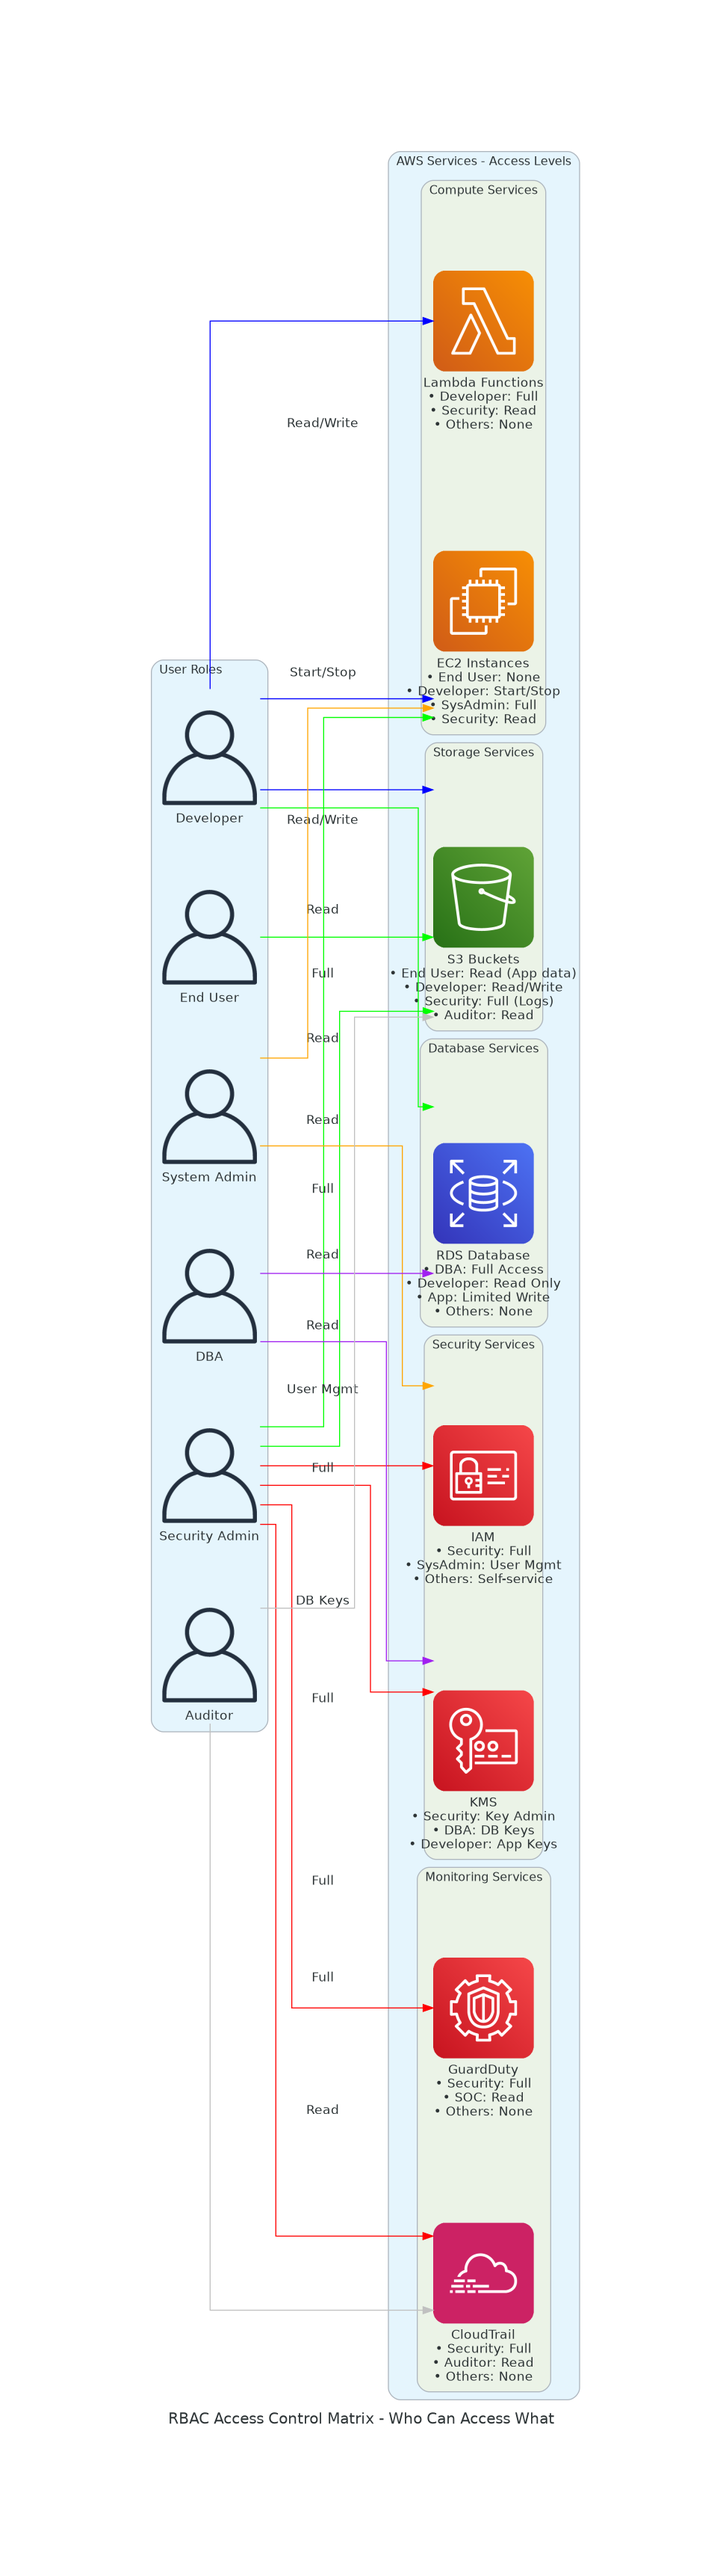
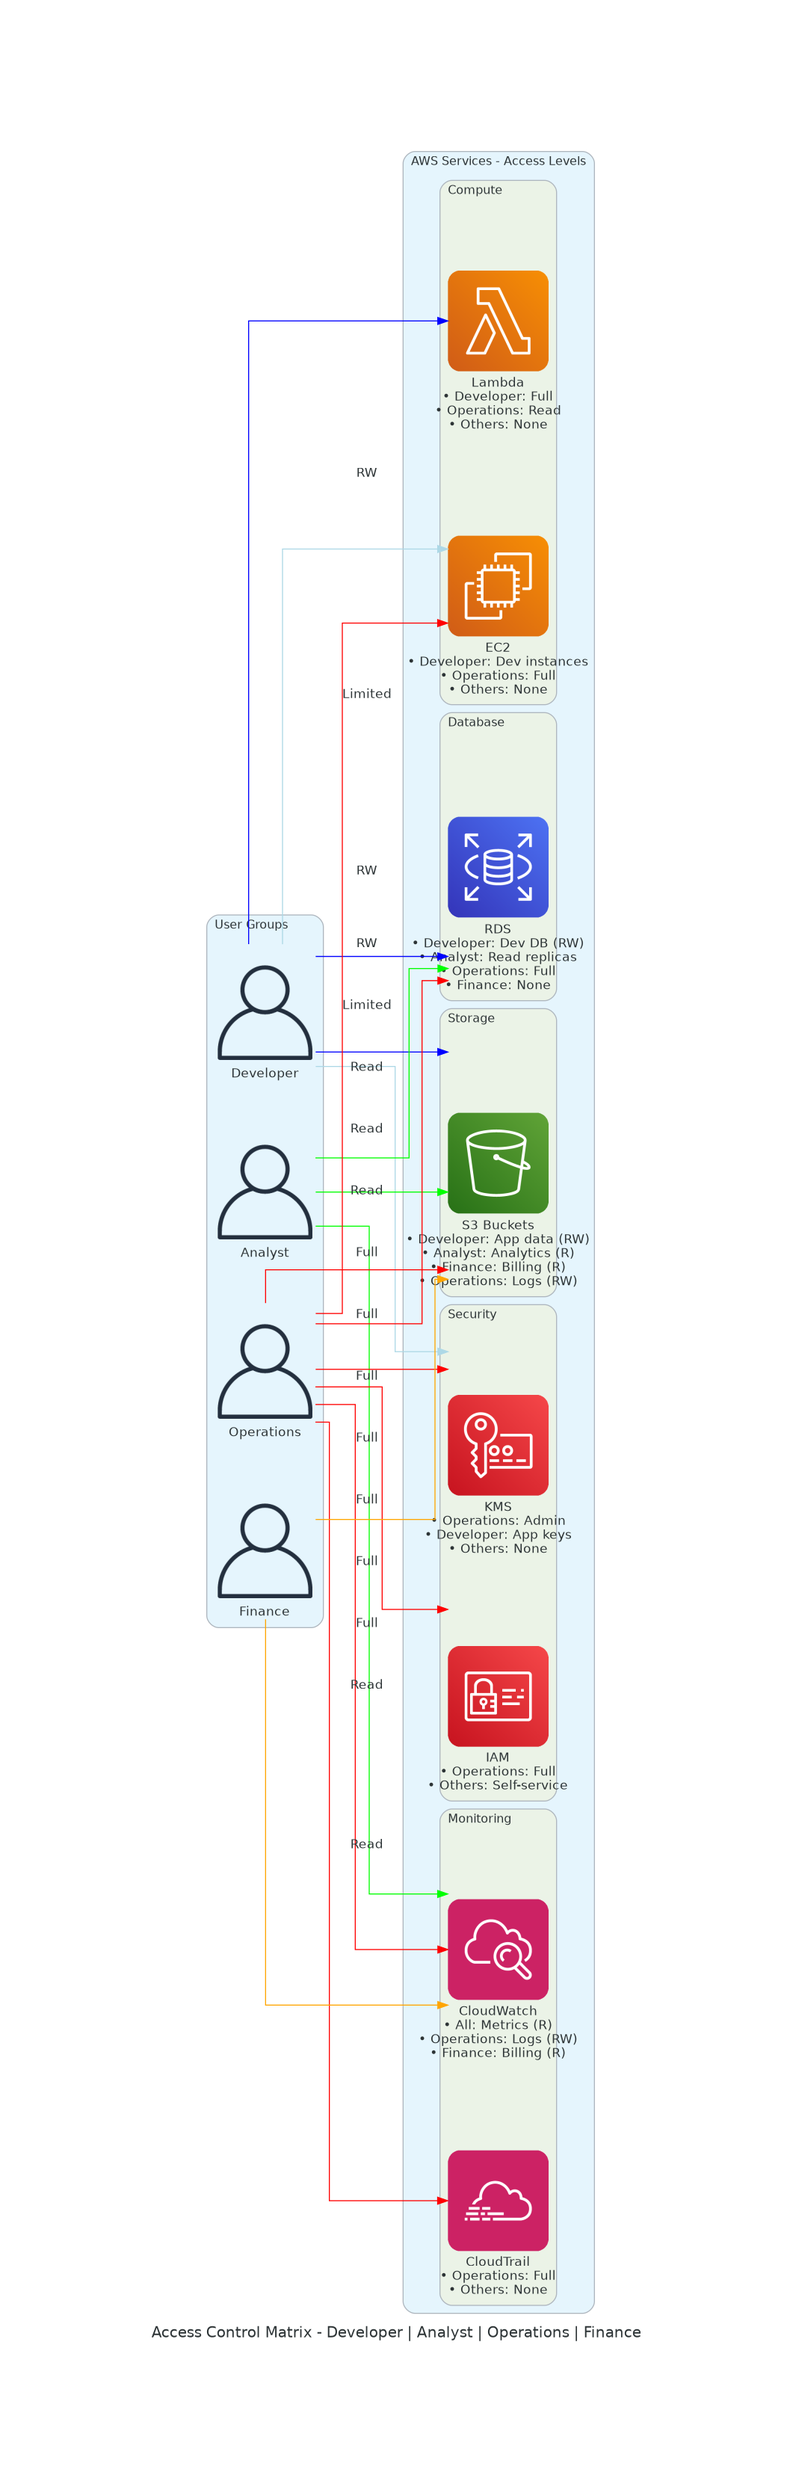
Update architecture with specific user groups: Developer, Analyst, Operations, Finance
- Updated RBAC diagrams with 4 specific user groups
- Developer: App development resources (S3 app data, Lambda, Dev RDS/EC2)
- Analyst: Read-only analytics access (S3 analytics, RDS replicas, CloudWatch metrics)
- Operations: Full infrastructure access (All EC2, monitoring, security services)
- Finance: Billing data access (S3 billing, CloudWatch billing metrics)
- Updated access control matrix in README
- Maintained principle of least privilege for each group

Changed region(s): [[0.186, 0.0312, 0.8058, 0.9367], [0.3099, 0.1249, 0.3409, 0.1561]]

diff --git a/generate_architecture_diagram.py b/generate_architecture_diagram.py
@@ -1,193 +1,157 @@
 #!/usr/bin/env python3
 """
-AWS Zero-Trust Security Architecture Diagram Generator with RBAC Access Control
+AWS Zero-Trust Security Architecture with Specific User Groups
 """
 
 from diagrams import Diagram, Cluster, Edge
 from diagrams.aws.compute import Lambda, EC2
 from diagrams.aws.database import RDS
-from diagrams.aws.network import VPC, ALB
+from diagrams.aws.network import ALB
 from diagrams.aws.security import IAM, KMS, SecretsManager, Guardduty, SecurityHub, WAF
 from diagrams.aws.storage import S3
 from diagrams.aws.management import Cloudtrail, Cloudwatch, SystemsManager, Config
 from diagrams.aws.integration import SNS
-from diagrams.aws.general import User, Users
+from diagrams.aws.general import User
 from diagrams.onprem.client import Client
 
 def create_rbac_architecture():
-    """Generate architecture diagram with Role-Based Access Control matrix"""
+    """Generate architecture with specific user groups: Developer, Analyst, Operations, Finance"""
     
-    with Diagram("Enterprise Zero-Trust Architecture with RBAC Access Control", 
+    with Diagram("Enterprise Zero-Trust Architecture - User Group Access Control", 
                  filename="zero_trust_rbac_architecture", 
                  show=False, 
                  direction="TB"):
         
-        # User Groups with specific roles
-        with Cluster("User Groups & Roles"):
-            end_users = Users("End Users\nRole: ReadOnlyAccess")
-            developers = User("Developers\nRole: DeveloperAccess")
-            security_admin = User("Security Admin\nRole: SecurityAudit")
-            sys_admin = User("System Admin\nRole: PowerUserAccess")
-            dba = User("Database Admin\nRole: DatabaseAccess")
+        # Specific User Groups
+        with Cluster("User Groups"):
+            developer = User("Developer\nRole: DeveloperAccess")
+            analyst = User("Analyst\nRole: AnalystAccess") 
+            operations = User("Operations\nRole: OperationsAccess")
+            finance = User("Finance\nRole: FinanceAccess")
             
-        # Layer 1: Identity & Access Management with RBAC
+        # IAM Roles with specific permissions
         with Cluster("Layer 1: IAM - Role-Based Access Control"):
             with Cluster("IAM Roles & Policies"):
-                readonly_role = IAM("ReadOnlyRole\n• S3: GetObject\n• EC2: Describe*\n• RDS: Describe*")
-                dev_role = IAM("DeveloperRole\n• S3: Read/Write\n• Lambda: Full\n• EC2: Start/Stop")
-                security_role = IAM("SecurityRole\n• CloudTrail: Full\n• GuardDuty: Full\n• SecurityHub: Full")
-                admin_role = IAM("AdminRole\n• EC2: Full\n• Systems Manager: Full\n• Config: Full")
-                dba_role = IAM("DBARole\n• RDS: Full\n• Secrets: Database*\n• KMS: Database keys")
+                dev_role = IAM("DeveloperRole\n• S3: App buckets (RW)\n• Lambda: Full\n• EC2: Dev instances\n• RDS: Dev DB (RW)")
+                analyst_role = IAM("AnalystRole\n• S3: Analytics data (R)\n• CloudWatch: Metrics (R)\n• RDS: Read replicas (R)\n• QuickSight: Full")
+                ops_role = IAM("OperationsRole\n• EC2: Full\n• Systems Manager: Full\n• CloudWatch: Full\n• Config: Full")
+                finance_role = IAM("FinanceRole\n• S3: Billing data (R)\n• Cost Explorer: Full\n• CloudWatch: Billing (R)\n• Trusted Advisor: R")
             
-        # Layer 2: Network Security with Access Controls
+        # Network Security
         with Cluster("Layer 2: Network Security"):
-            with Cluster("VPC (10.0.0.0/16) - Network Access Control"):
-                waf = WAF("AWS WAF\nAccess: Security Admin")
-                alb = ALB("Application LB\nAccess: System Admin")
+            with Cluster("VPC (10.0.0.0/16)"):
+                waf = WAF("AWS WAF\nAccess: Operations")
+                alb = ALB("Application LB\nAccess: Operations")
                 
                 with Cluster("Private Subnet (10.0.1.0/24)"):
-                    web_server = EC2("Web Server\nAccess: Developers, Admins\nSG: Port 443 from ALB")
+                    web_server = EC2("Web Server\nAccess: Developer, Operations")
                     
                 with Cluster("Private Subnet (10.0.2.0/24)"):
-                    app_server = EC2("App Server\nAccess: Developers, Admins\nSG: Port 8080 from Web")
-                    security_lambda = Lambda("Security Functions\nAccess: Security Admin")
+                    app_server = EC2("App Server\nAccess: Developer, Operations")
+                    security_lambda = Lambda("Security Functions\nAccess: Operations")
         
-        # Layer 3: Data Protection with Data Access Controls
-        with Cluster("Layer 3: Data Protection - Data Access Matrix"):
-            kms = KMS("KMS Keys\nAccess: Key Admins\n• App Keys: Developers\n• DB Keys: DBAs\n• Security Keys: Sec Admin")
-            secrets = SecretsManager("Secrets Manager\nAccess: Service Roles\n• DB Secrets: DBA Role\n• App Secrets: Dev Role")
+        # Data Protection
+        with Cluster("Layer 3: Data Protection"):
+            kms = KMS("KMS Keys\nAccess: Operations (Admin)\nDeveloper (App keys)")
+            secrets = SecretsManager("Secrets Manager\nAccess: Developer, Operations")
             
-            with Cluster("Data Storage Access Control"):
-                s3_app = S3("Application Data\nAccess: Developers (RW)\nEnd Users (R)")
-                s3_logs = S3("Security Logs\nAccess: Security Admin (RW)\nAuditors (R)")
-                rds_db = RDS("Production DB\nAccess: DBA (Full)\nDevelopers (Read)\nApps (Limited)")
+            with Cluster("Data Storage"):
+                s3_app = S3("Application Data\nAccess: Developer (RW)")
+                s3_analytics = S3("Analytics Data\nAccess: Analyst (R)")
+                s3_billing = S3("Billing Data\nAccess: Finance (R)")
+                rds_prod = RDS("Production DB\nAccess: Operations (Admin)\nAnalyst (Read replica)")
+                rds_dev = RDS("Development DB\nAccess: Developer (RW)")
             
-        # Layer 4: Application Security
-        with Cluster("Layer 4: Application Security"):
-            container_sec = EC2("Container Security\nAccess: Developers, Security")
+        # Monitoring & Compliance
+        with Cluster("Layer 5: Monitoring"):
+            cloudtrail = Cloudtrail("CloudTrail\nAccess: Operations (RW)")
+            guardduty = Guardduty("GuardDuty\nAccess: Operations (Full)")
+            security_hub = SecurityHub("Security Hub\nAccess: Operations (Full)")
+            config = Config("Config Rules\nAccess: Operations (RW)")
+            cloudwatch = Cloudwatch("CloudWatch\nAccess: All (Metrics)\nOperations (Logs)")
             
-        # Layer 5: Monitoring & Compliance with Access Segregation
-        with Cluster("Layer 5: Monitoring - Segregated Access"):
-            cloudtrail = Cloudtrail("CloudTrail\nAccess: Security Admin (RW)\nAuditors (R)")
-            guardduty = Guardduty("GuardDuty\nAccess: Security Admin (Full)\nSOC Team (R)")
-            security_hub = SecurityHub("Security Hub\nAccess: Security Team (Full)\nManagement (R)")
-            config = Config("Config Rules\nAccess: Compliance Team (RW)\nAuditors (R)")
-            cloudwatch = Cloudwatch("CloudWatch\nAccess: All Roles (Metrics)\nAdmins (Logs)")
-            
-        # Layer 6: Incident Response with Response Team Access
+        # Incident Response
         with Cluster("Layer 6: Incident Response"):
-            sns = SNS("Security Alerts\nAccess: Security Team\nEscalation: Management")
-            systems_manager = SystemsManager("Systems Manager\nAccess: System Admins\nEmergency: Security Team")
+            sns = SNS("Security Alerts\nAccess: Operations")
+            systems_manager = SystemsManager("Systems Manager\nAccess: Operations")
             
-        # RBAC Access Flow
-        end_users >> Edge(label="Read-Only Access", color="green") >> readonly_role
-        developers >> Edge(label="Development Access", color="blue") >> dev_role
-        security_admin >> Edge(label="Security Operations", color="red") >> security_role
-        sys_admin >> Edge(label="System Operations", color="orange") >> admin_role
-        dba >> Edge(label="Database Operations", color="purple") >> dba_role
+        # Access Flow
+        developer >> Edge(label="Development Access", color="blue") >> dev_role
+        analyst >> Edge(label="Analytics Access", color="green") >> analyst_role
+        operations >> Edge(label="Operations Access", color="red") >> ops_role
+        finance >> Edge(label="Finance Access", color="orange") >> finance_role
         
-        # Service Access Mapping
-        readonly_role >> Edge(label="Read", color="green") >> [s3_app, cloudwatch]
-        dev_role >> Edge(label="Read/Write", color="blue") >> [s3_app, web_server, app_server, container_sec]
-        security_role >> Edge(label="Full Access", color="red") >> [cloudtrail, guardduty, security_hub, security_lambda, s3_logs]
-        admin_role >> Edge(label="Admin Access", color="orange") >> [web_server, app_server, alb, systems_manager, config]
-        dba_role >> Edge(label="Database Access", color="purple") >> [rds_db, secrets, kms]
+        # Service Access
+        dev_role >> Edge(label="RW", color="blue") >> [s3_app, rds_dev, web_server, app_server]
+        analyst_role >> Edge(label="Read", color="green") >> [s3_analytics, rds_prod, cloudwatch]
+        ops_role >> Edge(label="Full", color="red") >> [waf, alb, web_server, app_server, cloudtrail, guardduty, security_hub, config, systems_manager]
+        finance_role >> Edge(label="Read", color="orange") >> [s3_billing, cloudwatch]
         
-        # Cross-layer security monitoring
-        [web_server, app_server, rds_db, s3_app] >> Edge(label="Audit Trail", style="dashed") >> cloudtrail
-        [web_server, app_server, rds_db] >> Edge(label="Threat Detection", style="dashed") >> guardduty
-        
-        # Incident response flow
-        guardduty >> Edge(label="High Severity Alert", color="red") >> sns
-        sns >> Edge(label="Notify", color="red") >> [security_admin, sys_admin]
+        # Monitoring flow
+        [web_server, app_server, rds_prod, s3_app] >> Edge(label="Audit", style="dashed") >> cloudtrail
+        guardduty >> Edge(label="Alert", color="red") >> sns >> operations
 
 def create_access_control_matrix():
-    """Generate detailed access control matrix diagram"""
+    """Generate access control matrix for specific user groups"""
     
-    with Diagram("RBAC Access Control Matrix - Who Can Access What", 
+    with Diagram("Access Control Matrix - Developer | Analyst | Operations | Finance", 
                  filename="rbac_access_matrix", 
                  show=False, 
                  direction="LR"):
         
-        # User Roles
-        with Cluster("User Roles"):
-            end_user = User("End User")
-            developer = User("Developer") 
-            security = User("Security Admin")
-            sysadmin = User("System Admin")
-            dba = User("DBA")
-            auditor = User("Auditor")
+        # User Groups
+        with Cluster("User Groups"):
+            developer = User("Developer")
+            analyst = User("Analyst") 
+            operations = User("Operations")
+            finance = User("Finance")
             
-        # AWS Services with Access Levels
+        # AWS Services
         with Cluster("AWS Services - Access Levels"):
-            with Cluster("Compute Services"):
-                ec2 = EC2("EC2 Instances\n• End User: None\n• Developer: Start/Stop\n• SysAdmin: Full\n• Security: Read")
-                lambda_svc = Lambda("Lambda Functions\n• Developer: Full\n• Security: Read\n• Others: None")
+            with Cluster("Compute"):
+                ec2 = EC2("EC2\n• Developer: Dev instances\n• Operations: Full\n• Others: None")
+                lambda_svc = Lambda("Lambda\n• Developer: Full\n• Operations: Read\n• Others: None")
                 
-            with Cluster("Storage Services"):
-                s3 = S3("S3 Buckets\n• End User: Read (App data)\n• Developer: Read/Write\n• Security: Full (Logs)\n• Auditor: Read")
+            with Cluster("Storage"):
+                s3 = S3("S3 Buckets\n• Developer: App data (RW)\n• Analyst: Analytics (R)\n• Finance: Billing (R)\n• Operations: Logs (RW)")
                 
-            with Cluster("Database Services"):
-                rds = RDS("RDS Database\n• DBA: Full Access\n• Developer: Read Only\n• App: Limited Write\n• Others: None")
+            with Cluster("Database"):
+                rds = RDS("RDS\n• Developer: Dev DB (RW)\n• Analyst: Read replicas\n• Operations: Full\n• Finance: None")
                 
-            with Cluster("Security Services"):
-                iam_svc = IAM("IAM\n• Security: Full\n• SysAdmin: User Mgmt\n• Others: Self-service")
-                kms_svc = KMS("KMS\n• Security: Key Admin\n• DBA: DB Keys\n• Developer: App Keys")
+            with Cluster("Security"):
+                iam_svc = IAM("IAM\n• Operations: Full\n• Others: Self-service")
+                kms_svc = KMS("KMS\n• Operations: Admin\n• Developer: App keys\n• Others: None")
                 
-            with Cluster("Monitoring Services"):
-                trail = Cloudtrail("CloudTrail\n• Security: Full\n• Auditor: Read\n• Others: None")
-                guard = Guardduty("GuardDuty\n• Security: Full\n• SOC: Read\n• Others: None")
+            with Cluster("Monitoring"):
+                cw = Cloudwatch("CloudWatch\n• All: Metrics (R)\n• Operations: Logs (RW)\n• Finance: Billing (R)")
+                trail = Cloudtrail("CloudTrail\n• Operations: Full\n• Others: None")
         
-        # Access relationships with different colors for access levels
-        # End User Access (Green - Read Only)
-        end_user >> Edge(label="Read", color="green") >> s3
+        # Access relationships
+        developer >> Edge(label="RW", color="blue") >> [s3, lambda_svc, rds]
+        developer >> Edge(label="Limited", color="lightblue") >> [ec2, kms_svc]
         
-        # Developer Access (Blue - Read/Write)
-        developer >> Edge(label="Read/Write", color="blue") >> [s3, lambda_svc]
-        developer >> Edge(label="Start/Stop", color="blue") >> ec2
-        developer >> Edge(label="Read", color="green") >> rds
+        analyst >> Edge(label="Read", color="green") >> [s3, rds, cw]
         
-        # Security Admin Access (Red - Full)
-        security >> Edge(label="Full", color="red") >> [iam_svc, kms_svc, trail, guard]
-        security >> Edge(label="Read", color="green") >> [ec2, s3]
+        operations >> Edge(label="Full", color="red") >> [ec2, s3, rds, iam_svc, kms_svc, cw, trail]
         
-        # System Admin Access (Orange - Admin)
-        sysadmin >> Edge(label="Full", color="orange") >> ec2
-        sysadmin >> Edge(label="User Mgmt", color="orange") >> iam_svc
-        
-        # DBA Access (Purple - Database)
-        dba >> Edge(label="Full", color="purple") >> rds
-        dba >> Edge(label="DB Keys", color="purple") >> kms_svc
-        
-        # Auditor Access (Gray - Read Only)
-        auditor >> Edge(label="Read", color="gray") >> [s3, trail]
+        finance >> Edge(label="Read", color="orange") >> [s3, cw]
 
 if __name__ == "__main__":
-    print("🔍 Generating Enhanced RBAC Architecture Diagrams...")
+    print("🔍 Generating RBAC Architecture for User Groups: Developer, Analyst, Operations, Finance...")
     
-    # Generate RBAC architecture
     create_rbac_architecture()
     print("✅ RBAC architecture diagram generated")
     
-    # Generate access control matrix
     create_access_control_matrix()
     print("✅ Access control matrix diagram generated")
     
-    print("\n🎯 Enhanced Architecture Diagrams with RBAC!")
+    print("\n🎯 User Group Access Control!")
     print("\n📁 Files created:")
-    print("├── zero_trust_rbac_architecture.png - Complete architecture with RBAC")
-    print("└── rbac_access_matrix.png - Detailed access control matrix")
+    print("├── zero_trust_rbac_architecture.png")
+    print("└── rbac_access_matrix.png")
     
-    print("\n🔐 RBAC Implementation:")
-    print("┌─ End Users: Read-only access to application data")
-    print("├─ Developers: Read/write to development resources")
-    print("├─ Security Admins: Full access to security services")
-    print("├─ System Admins: Full access to infrastructure")
-    print("├─ DBAs: Full access to database resources")
-    print("└─ Auditors: Read-only access to logs and compliance data")
-    
-    print("\n🛡 Access Control Principles:")
-    print("• Principle of Least Privilege")
-    print("• Separation of Duties")
-    print("• Need-to-Know Basis")
-    print("• Regular Access Reviews")
+    print("\n👥 User Groups & Access:")
+    print("├─ Developer: App development resources (S3, Lambda, Dev RDS, Dev EC2)")
+    print("├─ Analyst: Read-only analytics data (S3 analytics, RDS replicas, CloudWatch)")
+    print("├─ Operations: Full infrastructure access (EC2, monitoring, security services)")
+    print("└─ Finance: Billing and cost data (S3 billing, CloudWatch billing metrics)")

diff --git a/README.md b/README.md
@@ -53,14 +53,12 @@ This repository documents a comprehensive enterprise-grade zero-trust security a
 
 #### **Role-Based Access Control (RBAC) Matrix:**
 
-| User Role | EC2 | S3 | RDS | Lambda | IAM | KMS | CloudTrail | GuardDuty |
-|-----------|-----|----|----|--------|-----|-----|------------|-----------|
-| **End Users** | ❌ None | ✅ Read (App data) | ❌ None | ❌ None | ❌ None | ❌ None | ❌ None | ❌ None |
-| **Developers** | 🟡 Start/Stop | ✅ Read/Write | 🟡 Read Only | ✅ Full | ❌ None | 🟡 App Keys | ❌ None | ❌ None |
-| **Security Admins** | 🟡 Read | ✅ Full (Logs) | ❌ None | 🟡 Read | ✅ Full | ✅ Security Keys | ✅ Full | ✅ Full |
-| **System Admins** | ✅ Full | 🟡 Read | ❌ None | ❌ None | 🟡 User Mgmt | ❌ None | ❌ None | ❌ None |
-| **Database Admins** | ❌ None | ❌ None | ✅ Full | ❌ None | ❌ None | 🟡 DB Keys | ❌ None | ❌ None |
-| **Auditors** | ❌ None | 🟡 Read (Logs) | ❌ None | ❌ None | ❌ None | ❌ None | 🟡 Read | 🟡 Read |
+| User Group | EC2 | S3 | RDS | Lambda | IAM | KMS | CloudTrail | CloudWatch |
+|------------|-----|----|----|--------|-----|-----|------------|------------|
+| **Developer** | 🟡 Dev instances | ✅ App data (RW) | ✅ Dev DB (RW) | ✅ Full | ❌ Self-service | 🟡 App keys | ❌ None | 🟡 Metrics (R) |
+| **Analyst** | ❌ None | 🟡 Analytics (R) | 🟡 Read replicas | ❌ None | ❌ Self-service | ❌ None | ❌ None | ✅ Metrics (R) |
+| **Operations** | ✅ Full | ✅ All buckets | ✅ Full | 🟡 Read | ✅ Full | ✅ Admin | ✅ Full | ✅ Full |
+| **Finance** | ❌ None | 🟡 Billing (R) | ❌ None | ❌ None | ❌ Self-service | ❌ None | ❌ None | 🟡 Billing (R) |
 
 **Legend:** ✅ Full Access | 🟡 Limited Access | ❌ No Access
 
